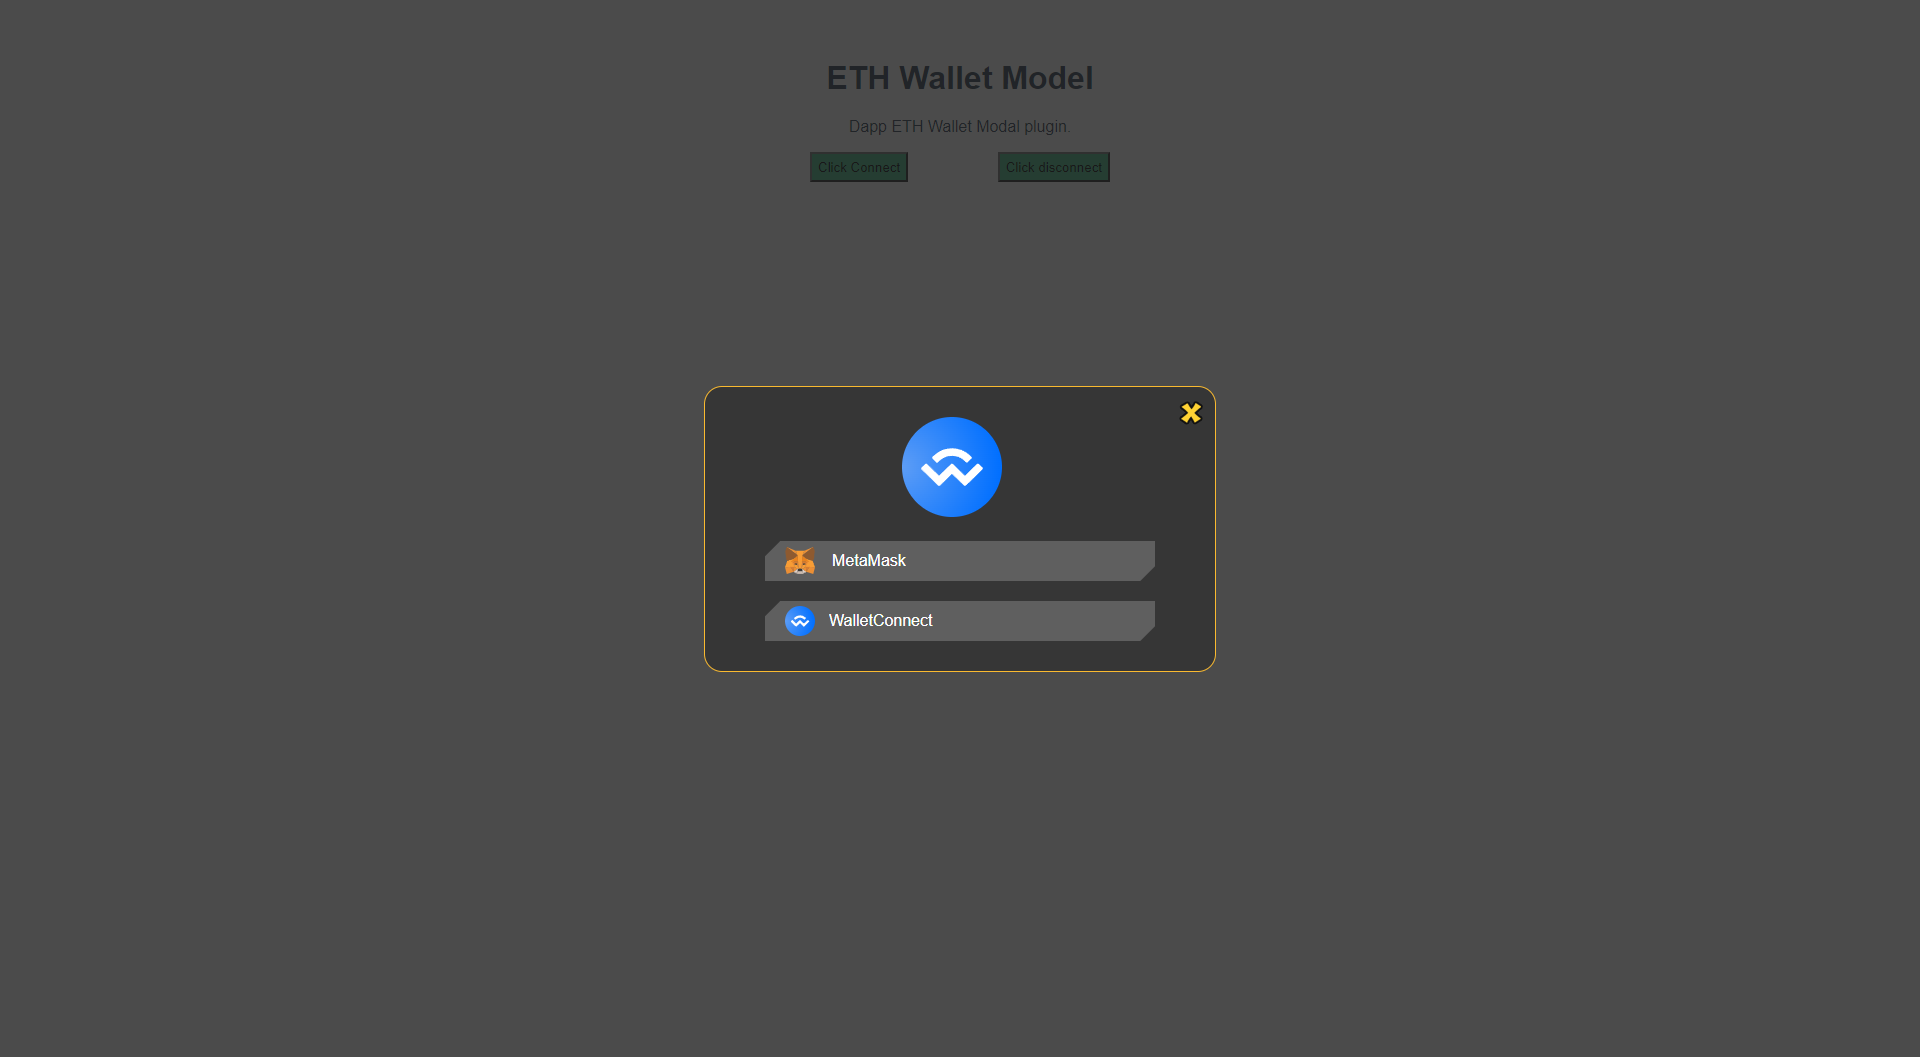
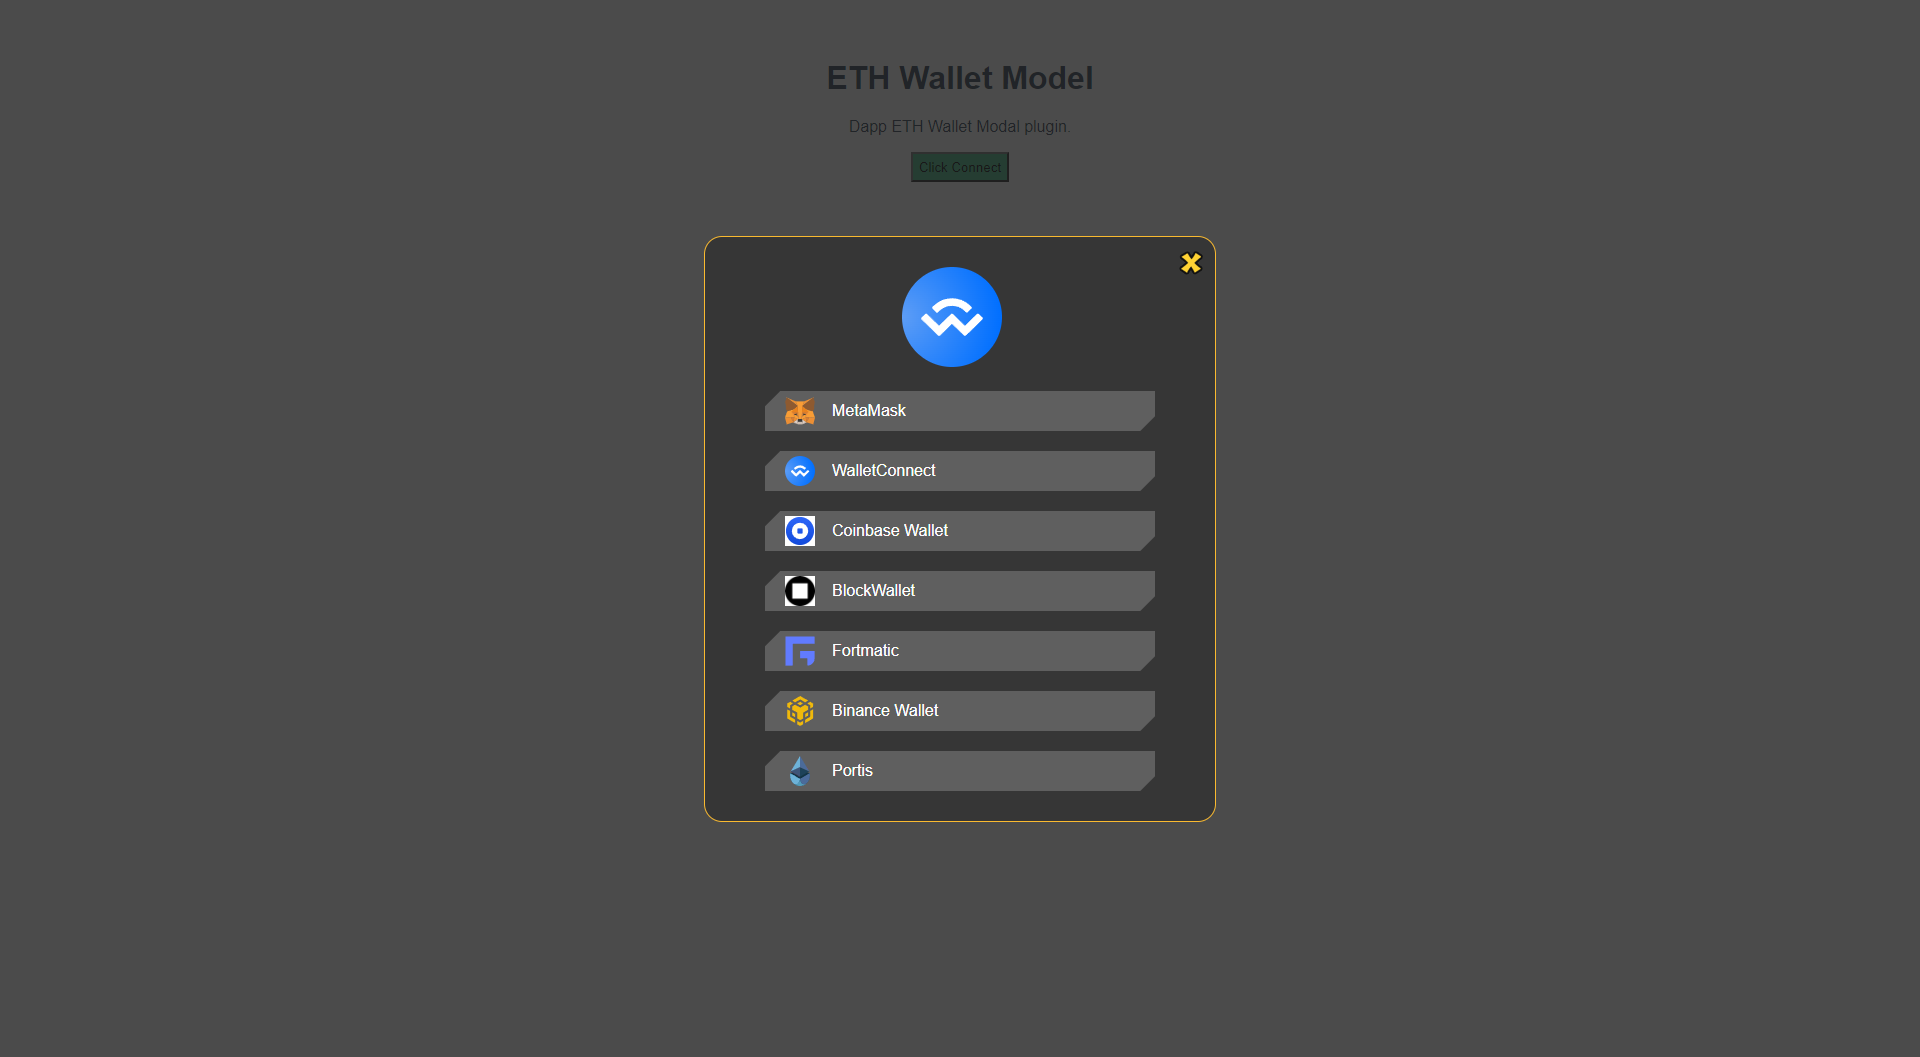
readem  edit

diff --git a/README.md b/README.md
@@ -10,7 +10,14 @@ Ethereum provider solution for  Wallets and Dapp
 </h2>
 
 ## Current support
-metamask, walletconnect, coinbase,  blockmallet, fortmatic, binance, portis
+<img src="https://raw.githubusercontent.com/Daudxu/eth-wallet-modal/724fd2238f6b4878dfcdc819da442bfcbb109733/examples/assets/logos/metamask.svg" width="30" height="30" alt="metamask"/>
+<img src="https://raw.githubusercontent.com/Daudxu/eth-wallet-modal/724fd2238f6b4878dfcdc819da442bfcbb109733/examples/assets/logos/walletconnect.svg" width="30" height="30" alt="walletconnect"/>
+<img src="https://raw.githubusercontent.com/Daudxu/eth-wallet-modal/724fd2238f6b4878dfcdc819da442bfcbb109733/examples/assets/logos/coinbase.svg" width="30" height="30" alt="coinbase"/>
+<img src="https://raw.githubusercontent.com/Daudxu/eth-wallet-modal/master/examples/assets/logos/BlockWallet.png" width="30" height="30" alt="coinbase"/>
+<img src="https://raw.githubusercontent.com/Daudxu/eth-wallet-modal/724fd2238f6b4878dfcdc819da442bfcbb109733/examples/assets/logos/fortmatic.svg" width="30" height="30" alt="blockmallet"/>
+<img src="https://raw.githubusercontent.com/Daudxu/eth-wallet-modal/724fd2238f6b4878dfcdc819da442bfcbb109733/examples/assets/logos/binancechainwallet.svg" width="30" height="30" alt="binance"/>
+<img src="https://raw.githubusercontent.com/Daudxu/eth-wallet-modal/724fd2238f6b4878dfcdc819da442bfcbb109733/examples/assets/logos/portis.svg" width="30" height="30" alt="portis"/>
+
 
 ## Preview
 
@@ -123,6 +130,21 @@ const web3 = new Web3(provider);
 
 import Base from 'eth-wallet-modal';
 
+import WalletConnectLogo from "../assets/logos/walletconnect-circle.svg";
+
+import MetaMaskLogo from "../assets/logos/metamask.svg";
+
+import CoinbaseLogo from "../assets/logos/coinbase.svg";
+
+import BlockWalletLogo from "../assets/logos/BlockWallet.png";
+
+import FortmaticLogo from "../assets/logos/fortmatic.svg";
+
+import BinancechainwalletLogo from "../assets/logos/binancechainwallet.svg";
+
+import PortisLogo from "../assets/logos/portis.svg";
+
+const CHAINID = 4;
 
 export default {
   name: 'HelloWorld',
@@ -135,40 +157,77 @@ export default {
       provider: '',
       providerOptions: {
         logo: WalletConnectLogo,
-        chainId: 4,
+        maskColor:'rgb(30, 30, 30, 0.8)',
+        bgColor:'#363636',
+        borderColor:'#faba30',
+        chainId: CHAINID,
         walletOptions: {
           metamask: {
             displayView: {
               logo: MetaMaskLogo,
-              name: "metamask",
+              name: "MetaMask",
             },
             options: {}
           },
           walletconnect: {
             displayView: {
               logo: WalletConnectLogo,
-              name: "walletconnect",
+              name: "WalletConnect",
             },
             options: {
               rpc: {
-                1: 'https://mainnet.infura.io/v3/9aa3d95b3bc440fa88ea12eaa4456161',
-                4: 'https://rinkeby.infura.io/v3/9aa3d95b3bc440fa88ea12eaa4456161'
+                1: 'https://mainnet.infura.io/v3/9aa3d95b3bc440fa88ea12eaa414516161',
+                4: 'https://rinkeby.infura.io/v3/9aa3d95b3bc440fa88ea12ea221a4456161'
               },
-              chainId: 4,
+              chainId: CHAINID,
               bridge: 'https://bridge.walletconnect.org'
             }
           },
           coinbase: {
             displayView: {
               logo: CoinbaseLogo,
-              name: "coinbase",
+              name: "Coinbase Wallet",
             },
             options: {
-              infuraId: '9aa3d95b3bc440fa88ea12eaa4456161',
-              chainId: 4,
+              infuraId: '9aa3d95b3bxxxc440fa88ea12eaa4456161',
+              chainId: CHAINID,
               appName: 'Digi',
               appLogoUrl: WalletConnectLogo,
               darkMode: false
+            }
+          },
+          blockmallet: {
+            displayView: {
+              logo: BlockWalletLogo,
+              name: "BlockWallet",
+            },
+            options: {}
+          },
+          fortmatic: {
+            displayView: {
+              logo: FortmaticLogo,
+              name: "Fortmatic",
+            },
+            options: {
+              chainId: CHAINID,
+              key:'pk_test_E652xxxxz525CA4198573'
+            }
+          },
+          binancechainwallet: {
+            displayView: {
+              logo: BinancechainwalletLogo,
+              name: "Binance Wallet",
+            },
+            options: {}
+          },
+          portis: {
+            displayView: {
+              logo: PortisLogo,
+              name: "Portis",
+            },
+            options: {
+                chainName: 'rinkeby', //mainnet,ropsten,rinkeby,goerli ...
+                id:'c668f1f8-xxxx-493e-86a1-b5c41d721ad9'
             }
           }
         },
@@ -176,8 +235,16 @@ export default {
       }
     }
   },
-  created () {
+  mounted () {
     this.baseModel = new Base(this.providerOptions)
+    const walletType = localStorage.getItem("injected")
+    var _this = this
+    if (walletType && typeof (walletType) !== 'undefined') {
+      setTimeout(function () {
+        console.log('lai le')
+        _this.handleClickConnect()
+      }, 3000)
+    }
   },
   methods: {
     async handleClickConnect () {
@@ -186,7 +253,6 @@ export default {
       if (provider) {
         this.provider = provider
       }
-
     },
     handleClickDisconnect () {
       this.baseModel.disconnect(this.provider)
